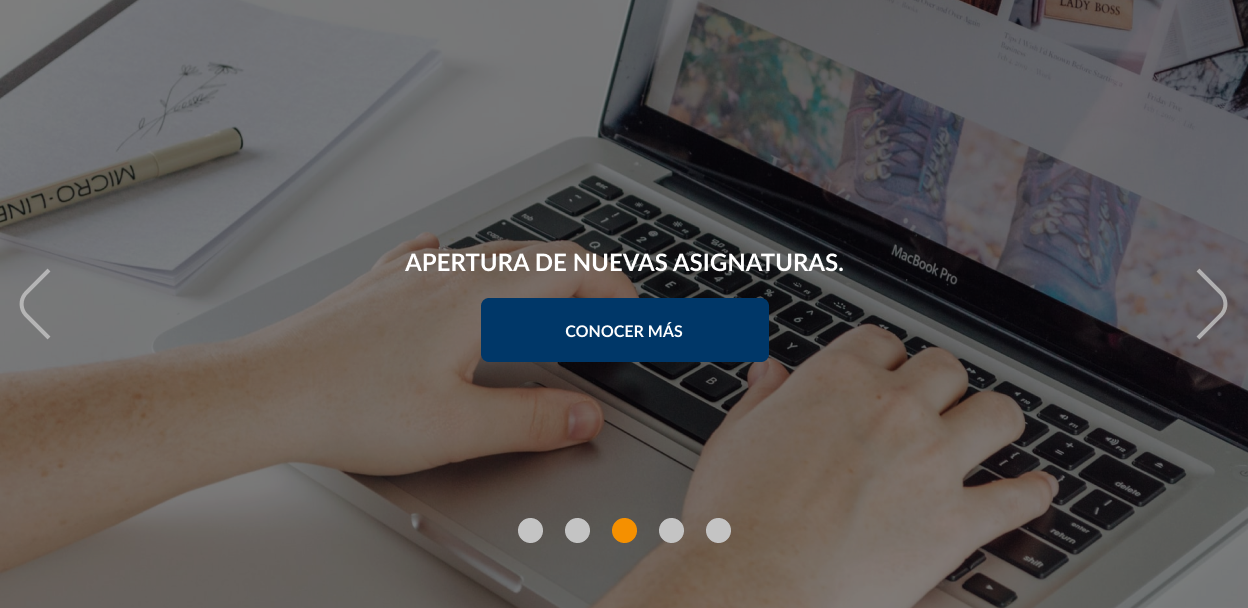
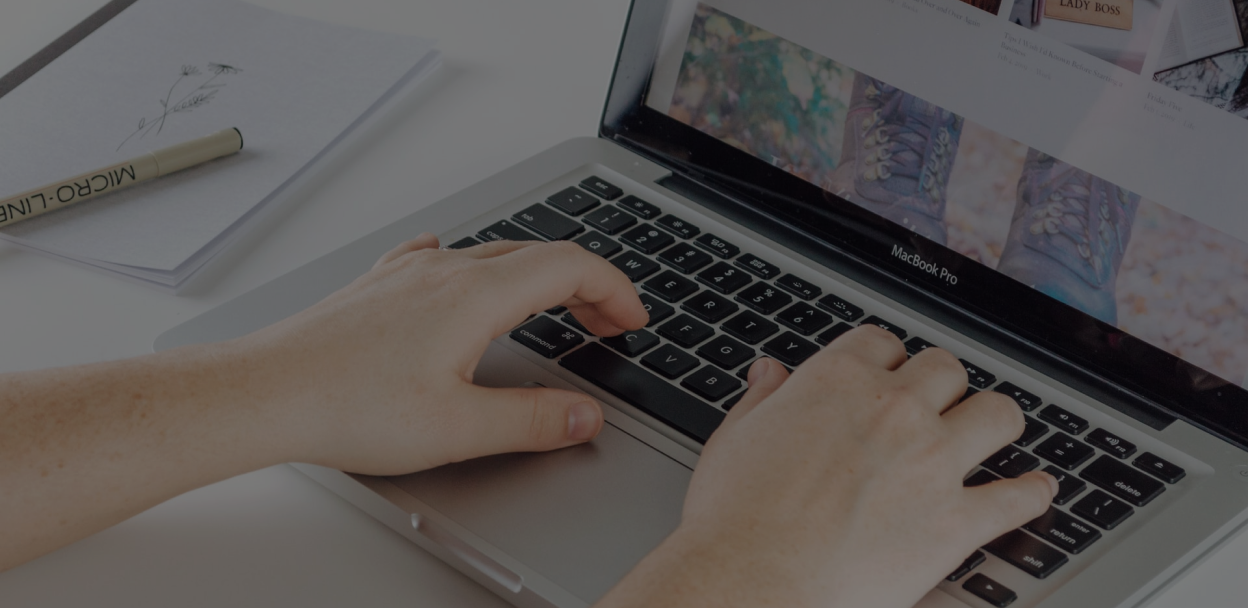
Se finaliza la maquetación en HTML5 de la página de inicio

diff --git a/src/index.html b/src/index.html
@@ -1,5 +1,5 @@
 <!DOCTYPE html>
-<html lang="en">
+<html lang="es">
 
 <head>
     <meta charset="UTF-8">
@@ -25,29 +25,54 @@
     </header>
     <main>
         <section>
+            <h2>APERTURA DE NUEVAS ASIGNATURAS.</h2>
             <img src="assets/img/image-slider.png" alt="Primera imagen número uno del carrusel principal">
+            <a href="#">CONOCER MÁS</a>
         </section>
-        <article>
-            <span><img src="assets/icons/build.svg" alt="Cursos libres"></span>
-            <h2>CURSOS LIBRES</h2>
-            <small>Descubre todos los cursos disponibles dentro de nuestra plataforma.</small>
-        </article>
-        <article>
-            <span><img src="assets/icons/free-course.svg" alt="Certificaciones"></span>
-            <h2>CERTIFICACIONES</h2>
-            <small>Accede a las mejores certificaciones, guiado por nuestros profesores y comunidad.</small>
-        </article>
-        <article>
-            <span><img src="assets/icons/book.svg" alt="Carreras cortas"></span>
-            <h2>CARRERAS CORTAS</h2>
-            <small>Ingresa de forma rápida al mercado laboral y comienza a gestar tu futuro hoy mismo.</small>
-        </article>
-        <article>
-            <span><img src="assets/icons/dollar.svg" alt="Becas y ayudas"></span>
-            <h2>BECAS Y AYUDAS</h2>
-            <small>Creémos en las personas y sus capacidades, por lo cuál no dejes que temas económicos impidan tus
-                sueños.</small>
-        </article>
+        <section>
+            <article>
+                <span><img src="assets/icons/build.svg" alt="Cursos libres"></span>
+                <h2>CURSOS LIBRES</h2>
+                <small>Descubre todos los cursos disponibles dentro de nuestra plataforma.</small>
+            </article>
+            <article>
+                <span><img src="assets/icons/free-course.svg" alt="Certificaciones"></span>
+                <h2>CERTIFICACIONES</h2>
+                <small>Accede a las mejores certificaciones, guiado por nuestros profesores y comunidad.</small>
+            </article>
+            <article>
+                <span><img src="assets/icons/book.svg" alt="Carreras cortas"></span>
+                <h2>CARRERAS CORTAS</h2>
+                <small>Ingresa de forma rápida al mercado laboral y comienza a gestar tu futuro hoy mismo.</small>
+            </article>
+            <article>
+                <span><img src="assets/icons/dollar.svg" alt="Becas y ayudas"></span>
+                <h2>BECAS Y AYUDAS</h2>
+                <small>Creémos en las personas y sus capacidades, por lo cuál no dejes que temas económicos impidan tus
+                    sueños.</small>
+            </article>
+        </section>
+        <section>
+            <article>
+                <h3>MISIÓN</h3>
+                <p>Ofrecer educación superior a todos los sectores de la población, especialmente a aquellos que por
+                    razones económicas, sociales, geográficas, culturales, etarias, de discapacidad o de género,
+                    requieren oportunidades para una inserción real y equitativa en la sociedad.</p>
+            </article>
+            <article>
+                <h3>VISIÓN</h3>
+                <p>Ser líder en los procesos de enseñanza y aprendizaje que emplean de manera apropiada y mediados
+                    pedagógicamente, tecnologías y otros medios de comunicación social. Formando personas que piensen y
+                    actúen de manera crítica, creativa e inteligente.</p>
+            </article>
+            <aside>
+                <h2>ENCUÉNTRANOS EN:</h2>
+                <span><img src="assets/social_icons/facebook.svg" alt="Facebook"></span>
+                <span><img src="assets/social_icons/whatsapp.svg" alt="WhatsApp"></span>
+                <span><img src="assets/social_icons/twitter.svg" alt="Twitter"></span>
+                <span><img src="assets/social_icons/youtube.svg" alt="YouTube"></span>
+            </aside>
+        </section>
     </main>
     <footer>
         <div>

diff --git a/README.md b/README.md
@@ -1,0 +1,19 @@
+# Academia OMG
+
+## Taller No.1
+
+### Objetivo:
+
+Diseñar una propuesta sobre la estructura base de un sitio web mediante el uso del lenguaje de marcas HTML5.
+
+### Descripción General:
+
+El taller a desarrollar consiste en proponer la estructura base
+de un sitio web mediante el maquetado en el lenguaje de marcas HTML5.
+La idea de este taller es que el estudiante entregue al final del curso la propuesta
+de sitio web desde el punto de vista Fron-End (HTML5, CSS y JS) y que se
+continuará en el curso de Programación Avanzada Web haciendo uso del back-end.
+
+### Nota:
+
+basado en el diseño del arte gráfico aprobado en el curso de Diseño de Páginas Web
